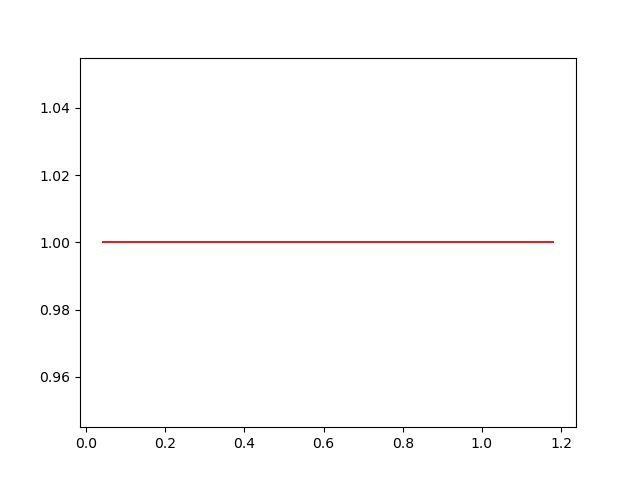
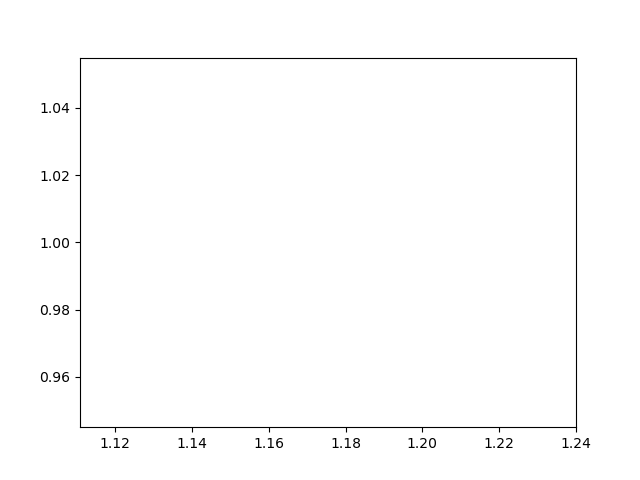
tweaks to img output

diff --git a/simple_ae.py b/simple_ae.py
@@ -182,11 +182,12 @@ class DataVisualizer:
         loss_p_data = [d[0] for d in self.data]
         loss_c_data = [d[1] for d in self.data]
         loss_cse = [d[2] for d in self.data]
-        loss_ae = loss_p_data + loss_c_data + loss_cse
+        loss_ae = [a+b+c for (a,b,c) in zip(loss_p_data, loss_c_data, loss_cse)]
+        print(self.data)
         fig = plt.figure()
-        plt.plot(loss_p_data, len(loss_p_data)*[1])
-        plt.plot(loss_c_data, len(loss_c_data)*[1])
-        plt.plot(loss_cse, len(loss_cse)*[1])
+        #plt.plot(loss_p_data, len(loss_p_data)*[1])
+        #plt.plot(loss_c_data, len(loss_c_data)*[1])
+        #plt.plot(loss_cse, len(loss_cse)*[1])
         plt.plot(loss_ae, len(loss_ae)*[1])
         plt.autoscale()
         fig.savefig(f'./outimgs/loss_'+str({i}))
